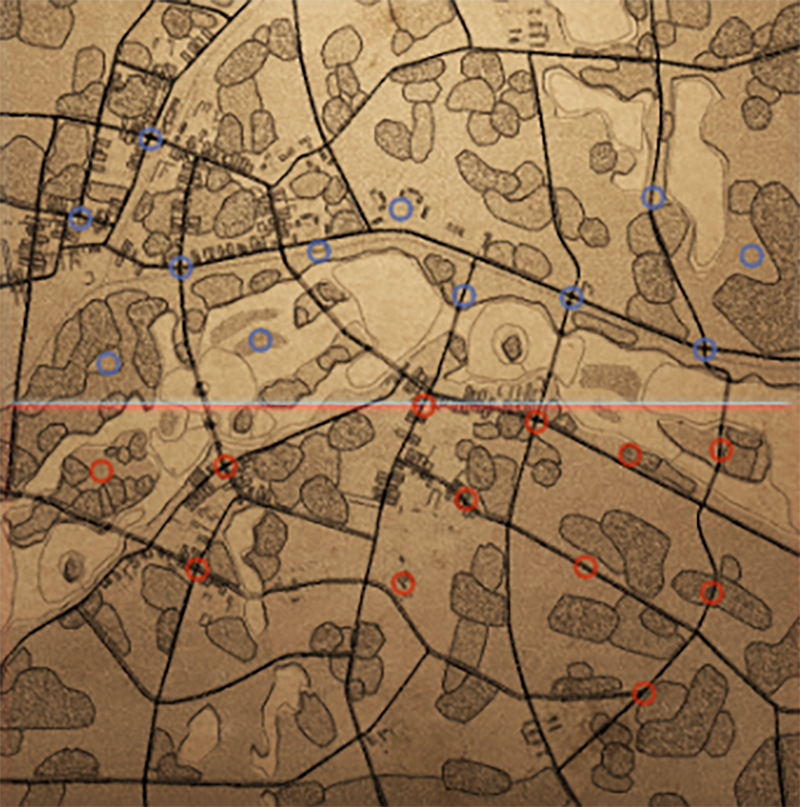
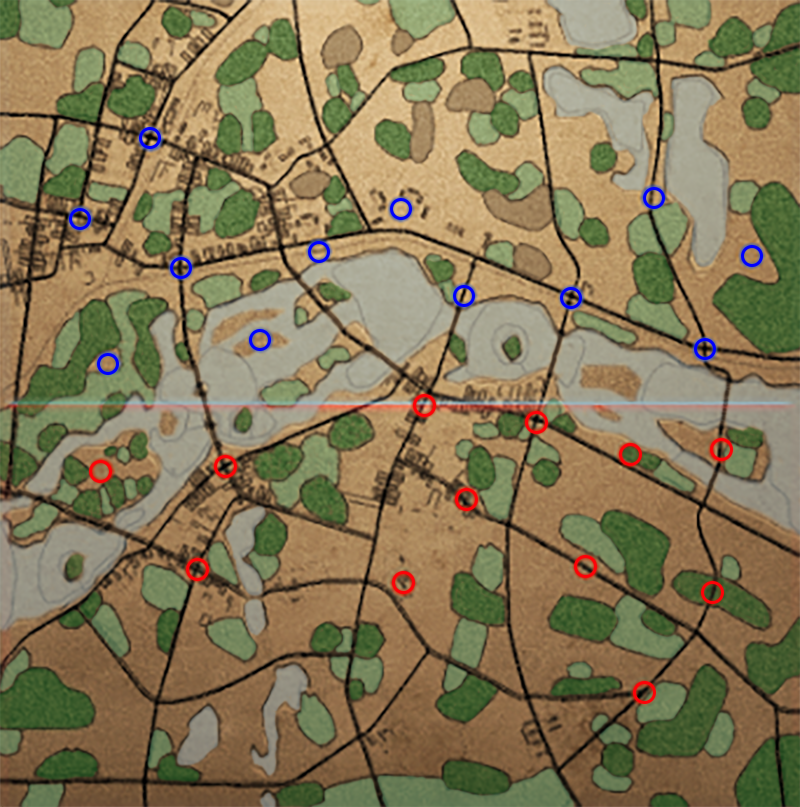
Adding new Gora Map
adding colour Gora map

diff --git a/src/commands/admin.ts b/src/commands/admin.ts
@@ -48,9 +48,6 @@ export class AdminCommand {
     }
 
 
-
-
-
     static async adjustElo(message:Message,input:string[]){
         let user = await SqlHelper.getDiscordUser(message.author.id)
         //Check if requestor has admin access
@@ -66,18 +63,81 @@ export class AdminCommand {
                 let newLeagueElo = input[1]
                 let newGlobalElo = input[2]
                 //await SqlHelper.setPlayer(eugenId, newLeagueElo, newGlobalElo);
-                message.reply("Eugen Acct "+eugenId+ " has been updated with LeagueELO "+newLeagueElo+" and GlobalELO "+newGlobalElo)
+                //message.reply("Eugen Acct "+eugenId+ " has been updated with LeagueELO "+newLeagueElo+" and GlobalELO "+newGlobalElo)
                 return
             }
             else{
                 message.reply("This command is not correctly formatted, it requires three arguments EugenID, New League ELO, New Global ELO.  All seperated by commas")
-
             }
         }
         else{
             message.reply("You do not have the admin access to use this command")
 
         }
+    }
+
+
+    static async setPrem(message:Message,input:string[]){
+        let user = await SqlHelper.getDiscordUser(message.author.id)
+        //Check if requestor has admin access
+        if (user.globalAdmin == true){
+            // Check if formatted correctly
+            if (input.length == 1){
+                message.reply("This command requires a channel id and one or more premission commands to be correctly formatted")
+                return
+            }
+            else if (input.length > 1){
+                let channel = input[0]
+                let x = 1
+                for (const command of  input) {
+                    switch (command) {
+                        case "blockElo":
+                            
+                            break;
+            
+                        case "blockCommands":
+                            
+                            break;
+
+                        case "blockReplay":
+                            
+                            break;
+                        
+                        case "blockChannelElo":
+                            
+                            break;
+
+                        case "blockServerElo":
+                            
+                            break;
+
+                        case "blockGlobalElo":
+                            
+                            break;
+
+                        case "blockall":
+
+                            break;
+
+                        default:
+                            message.reply("Sorry that is not a valid command")
+                    }
+
+
+
+                }
+            }
+            else {
+                message.reply("This command is not correctly formatted, it requires one channel as a argument");
+                return
+            }
+
+        }
+        else{
+            message.reply("You do not have the admin access to use this command")
+            return
+        }
+
     }
 
 }
@@ -88,5 +148,6 @@ export class AdminCommandHelper {
     static addCommands(bot:DiscordBot):void{
         bot.registerCommand("adjustelo",AdminCommand.adjustElo);
         bot.registerCommand("setadmin",AdminCommand.setAdmin);
+        bot.registerCommand("setchannel",AdminCommand.setPrem);
     }
 }

diff --git a/src/general/sqlHelper.ts b/src/general/sqlHelper.ts
@@ -145,8 +145,8 @@ export class SqlHelper {
     else
       return null;
   }
+  
   //permissions
-
   static async getServerPermissions(serverId: string): Promise<Blacklist>{
     const xx = await SqlHelper.exec("Select * from serverBlackList where id = '" + serverId + "';")
     if(xx.rows.length > 0){
@@ -183,6 +183,21 @@ export class SqlHelper {
     }else{
       return null;
     }
+  }
+
+  static async setChannelPermissions(channelId: string, blockPrem: string): Promise<Blacklist>{
+
+    return {
+      id: String(),
+      name: String(),
+      blockElo: Number(),
+      blockCommands: Number(),
+      blockReplay: Number(),
+      blockChannelElo: Number(),
+      blockServerElo: Number(),
+      blockGlobalElo: Number()
+    }
+    
   }
 
 
